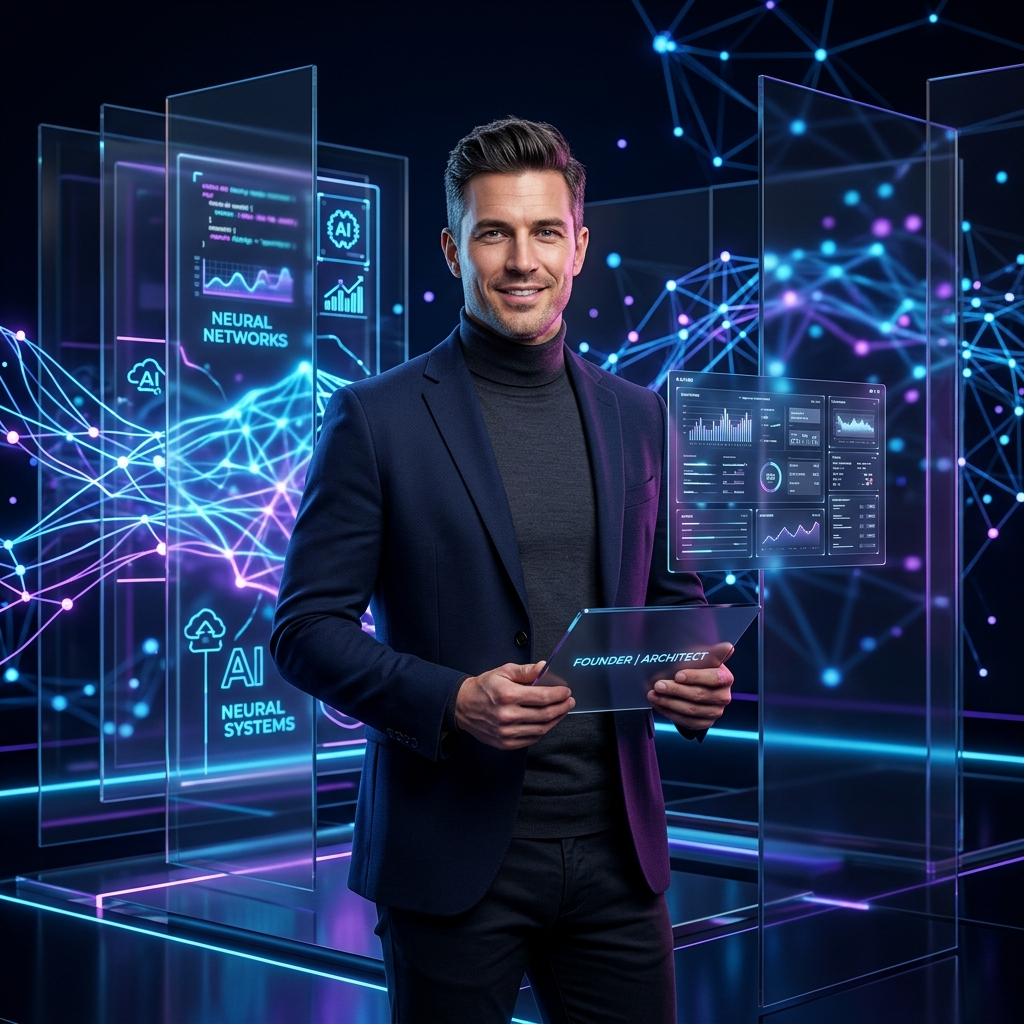
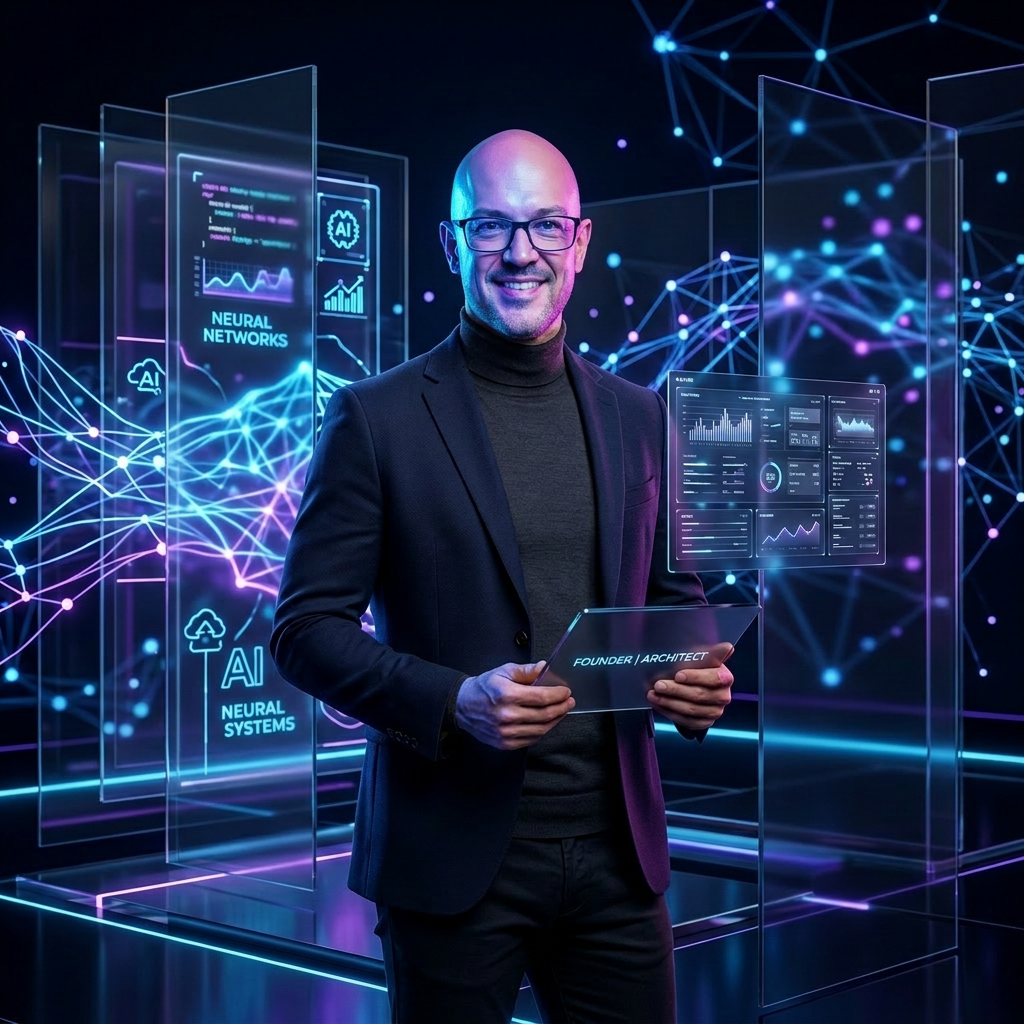
auto: update from TOMASZDUDA [2026-07-13 08:07:11]

diff --git a/01-jaison-core/website/site/index.html b/01-jaison-core/website/site/index.html
@@ -200,7 +200,7 @@
     <header class="site-header">
       <nav class="container site-nav">
         <a href="/" class="logo" style="text-decoration: none; display: flex; align-items: center; gap: 12px;">
-          <img src="./logo.png" alt="JASON Logo" class="header-logo">
+          <img src="./logo.webp" alt="JASON Logo" class="header-logo" width="340" height="80" fetchpriority="high">
         </a>
         <div class="nav-links">
           <a href="#services" style="margin-left: 25px; text-decoration: none; color: var(--charcoal); font-weight: 500;">Systemy</a>
@@ -260,7 +260,7 @@
             <!-- Right Side: Tomasz Brand Photo (Breaking personal brand barrier) -->
             <div style="flex: 0.8; min-width: 300px; display: flex; justify-content: center; position: relative;">
               <div class="glass-card" style="padding: 10px; background: rgba(10, 15, 29, 0.4); border-color: rgba(59, 130, 246, 0.25); border-radius: 20px; overflow: hidden; box-shadow: 0 20px 50px rgba(59, 130, 246, 0.15); width: 100%; max-width: 360px;">
-                <img src="./tomasz_hero.png" alt="Tomasz - Architekt Systemów AI dla Neuroatypowych i Przebodźcowanych" style="width: 100%; height: auto; border-radius: 15px; display: block; filter: brightness(1.05) contrast(1.05);">
+                <img src="./tomasz_hero.webp" alt="Tomasz - Architekt Systemów AI dla Neuroatypowych i Przebodźcowanych" style="width: 100%; height: auto; border-radius: 15px; display: block; filter: brightness(1.05) contrast(1.05);" width="1024" height="1024" fetchpriority="high" loading="eager">
                 <div style="position: absolute; bottom: 25px; left: 25px; right: 25px; background: rgba(5, 8, 20, 0.75); backdrop-filter: blur(8px); padding: 12px 18px; border-radius: 10px; border: 1px solid rgba(255,255,255,0.08); text-align: center;">
                   <span style="color: #FFF; font-weight: bold; font-size: 0.9rem; display: block;">Tomasz</span>
                   <span style="color: #3B82F6; font-size: 0.75rem; text-transform: uppercase; font-weight: bold; letter-spacing: 0.05em;">Architekt Systemów AI &amp; Neuro-produktywności</span>
@@ -365,7 +365,7 @@
             <!-- Prawa strona: Grafika z placeholderem w premium ramce -->
             <div style="flex: 0.8; min-width: 300px; display: flex; justify-content: center; position: relative;">
               <div class="glass-card" style="padding: 10px; background: rgba(10, 15, 29, 0.4); border-color: rgba(59, 130, 246, 0.25); border-radius: 20px; overflow: hidden; box-shadow: 0 20px 50px rgba(59, 130, 246, 0.15); width: 100%; max-width: 380px;">
-                <img src="./asynchronous_freedom.png" alt="Schemat działania asynchronicznych agentów AI w automatyzacji firmy" style="width: 100%; height: auto; border-radius: 15px; display: block; filter: brightness(1.05) contrast(1.05);">
+                <img src="./asynchronous_freedom.webp" alt="Schemat działania asynchronicznych agentów AI w automatyzacji firmy" style="width: 100%; height: auto; border-radius: 15px; display: block; filter: brightness(1.05) contrast(1.05);" width="1024" height="1024" loading="lazy">
                 <div style="position: absolute; bottom: 25px; left: 25px; right: 25px; background: rgba(5, 8, 20, 0.8); backdrop-filter: blur(8px); padding: 12px 18px; border-radius: 10px; border: 1px solid rgba(255,255,255,0.08); text-align: center;">
                   <span style="color: #FFF; font-weight: bold; font-size: 0.9rem; display: block;">Asynchroniczna Wolność</span>
                   <span style="color: #3B82F6; font-size: 0.75rem; text-transform: uppercase; font-weight: bold; letter-spacing: 0.05em;">Automatyczne systemy bez Twojej uwagi</span>
@@ -1104,7 +1104,7 @@
 
                 <!-- Tab 2: Tomasz Bio Portrait with Cybernetic Overlay -->
                 <div id="tab-bio-content" class="about-tab-content" style="position: relative; width: 100%; height: auto; border-radius: 12px; overflow: hidden; background: #070b16;">
-                  <img id="bio-portrait" src="./tomasz_bio.png" onerror="this.onerror=null; this.src='./tomasz_hero.png'; this.style.opacity='0.85';" style="width: 100%; height: auto; display: block; filter: brightness(1.0) contrast(1.05); transition: opacity 0.5s;" alt="Tomasz - Holistic Jason">
+                  <img id="bio-portrait" src="./tomasz_bio.webp" onerror="this.onerror=null; this.src='./tomasz_hero.webp'; this.style.opacity='0.85';" style="width: 100%; height: auto; display: block; filter: brightness(1.0) contrast(1.05); transition: opacity 0.5s;" alt="Tomasz - Holistic Jason" width="1024" height="1024" loading="lazy">
                   
                   <!-- Cybernetic Neon Overlay -->
                   <div style="position: absolute; inset: 0; background: linear-gradient(to top, #0a0f1d 5%, rgba(10, 15, 29, 0.3) 50%, rgba(10, 15, 29, 0.15) 100%); pointer-events: none;"></div>
@@ -1246,7 +1246,7 @@
             <div style="flex: 1; min-width: 300px; display: flex; flex-direction: column; gap: 20px;">
               <!-- Card 1: Certificate -->
               <div class="glass-card" style="padding: 12px; background: rgba(10, 15, 29, 0.45); border: 1px solid rgba(224, 165, 27, 0.25); border-radius: 16px; box-shadow: 0 10px 30px rgba(0,0,0,0.3); transition: transform 0.3s ease, box-shadow 0.3s ease;" onmouseover="this.style.transform='scale(1.03) rotate(1deg)'; this.style.boxShadow='0 15px 35px rgba(224, 165, 27, 0.25)';" onmouseout="this.style.transform='none'; this.style.boxShadow='0 10px 30px rgba(0,0,0,0.3)';">
-                <img src="./certyfikat_google.jpg" alt="Oficjalny Certyfikat Google Umiejętności Jutra AI" style="width: 100%; height: auto; border-radius: 10px; display: block;">
+                <img src="./certyfikat_google.webp" alt="Oficjalny Certyfikat Google Umiejętności Jutra AI" style="width: 100%; height: auto; border-radius: 10px; display: block;" width="1683" height="1189" loading="lazy">
                 <div style="padding: 10px 5px 2px 5px; display: flex; justify-content: space-between; align-items: center;">
                   <span style="color: #FFF; font-size: 0.85rem; font-weight: bold; font-family: var(--font-heading);">Certyfikat Ukończenia SGH & Google</span>
                   <span style="color: var(--muted-gold); font-size: 0.8rem; font-weight: bold;">Google AI</span>
@@ -1255,7 +1255,7 @@
               
               <!-- Card 2: Test Result -->
               <div class="glass-card" style="padding: 12px; background: rgba(10, 15, 29, 0.45); border: 1px solid rgba(59, 130, 246, 0.25); border-radius: 16px; box-shadow: 0 10px 30px rgba(0,0,0,0.3); transition: transform 0.3s ease, box-shadow 0.3s ease;" onmouseover="this.style.transform='scale(1.03) rotate(-1deg)'; this.style.boxShadow='0 15px 35px rgba(59, 130, 246, 0.25)';" onmouseout="this.style.transform='none'; this.style.boxShadow='0 10px 30px rgba(0,0,0,0.3)';">
-                <img src="./test_zaliczony.png" alt="Zaliczony egzamin Google Umiejętności Jutra" style="width: 100%; height: auto; border-radius: 10px; display: block;">
+                <img src="./test_zaliczony.webp" alt="Zaliczony egzamin Google Umiejętności Jutra" style="width: 100%; height: auto; border-radius: 10px; display: block;" width="1212" height="771" loading="lazy">
                 <div style="padding: 10px 5px 2px 5px; display: flex; justify-content: space-between; align-items: center;">
                   <span style="color: #FFF; font-size: 0.85rem; font-weight: bold; font-family: var(--font-heading);">Egzamin końcowy: Status ZALICZONY</span>
                   <span style="color: #3B82F6; font-size: 0.8rem; font-weight: bold;">100% Correct</span>
@@ -1863,7 +1863,7 @@
             <!-- Lewa strona: Grafika z placeholderem -->
             <div style="flex: 0.8; min-width: 300px; display: flex; justify-content: center; position: relative;">
               <div class="glass-card" style="padding: 10px; background: rgba(10, 15, 29, 0.4); border-color: rgba(6, 182, 212, 0.25); border-radius: 20px; overflow: hidden; box-shadow: 0 20px 50px rgba(6, 182, 212, 0.15); width: 100%; max-width: 380px;">
-                <img src="./ai_systems_architect_blind.png" onerror="this.onerror=null; this.src='./ai_systems_architect.png';" alt="Architekt Systemów AI i Widoczność w AI Search" style="width: 100%; height: auto; border-radius: 15px; display: block; filter: brightness(1.05) contrast(1.05);">
+                <img src="./ai_systems_architect_blind.webp" onerror="this.onerror=null; this.src='./ai_systems_architect.webp';" alt="Architekt Systemów AI i Widoczność w AI Search" style="width: 100%; height: auto; border-radius: 15px; display: block; filter: brightness(1.05) contrast(1.05);" width="1024" height="1024" loading="lazy">
                 <div style="position: absolute; bottom: 25px; left: 25px; right: 25px; background: rgba(5, 8, 20, 0.8); backdrop-filter: blur(8px); padding: 12px 18px; border-radius: 10px; border: 1px solid rgba(255,255,255,0.08); text-align: center;">
                   <span style="color: #FFF; font-weight: bold; font-size: 0.9rem; display: block;">Architektura AEO</span>
                   <span style="color: #06B6D4; font-size: 0.75rem; text-transform: uppercase; font-weight: bold; letter-spacing: 0.05em;">Indeksowanie i optymalizacja pod LLM</span>
@@ -2017,7 +2017,7 @@
           <a href="https://www.youtube.com" target="_blank" rel="noopener noreferrer" style="color: rgba(255,255,255,0.4); text-decoration: none; transition: color 0.2s;" onmouseover="this.style.color='#FF0000'" onmouseout="this.style.color='rgba(255,255,255,0.4)'" title="YouTube">📺 YouTube</a>
           <a href="mailto:hello@jaison.pl" style="color: rgba(255,255,255,0.4); text-decoration: none; transition: color 0.2s;" onmouseover="this.style.color='#06B6D4'" onmouseout="this.style.color='rgba(255,255,255,0.4)'" title="Email">✉ hello@jaison.pl</a>
         </div>
-        <img src="./logo.png" alt="J(AI)SON Operator" style="height: 38px; mix-blend-mode: normal; filter: drop-shadow(0 0 12px rgba(99, 102, 241, 0.35)) drop-shadow(0 0 6px rgba(16, 185, 129, 0.25)); margin-bottom: 15px; opacity: 0.85;">
+        <img src="./logo.webp" alt="J(AI)SON Operator" style="height: 38px; width: auto; mix-blend-mode: normal; filter: drop-shadow(0 0 12px rgba(99, 102, 241, 0.35)) drop-shadow(0 0 6px rgba(16, 185, 129, 0.25)); margin-bottom: 15px; opacity: 0.85;" width="110" height="38" loading="lazy">
         <p style="font-size: 0.85rem; margin-bottom: 6px;">&copy; 2026 J(AI)SON &middot; AI Systems Architect &middot; <a href="/" style="color: rgba(255,255,255,0.6); text-decoration: none;">jaison.pl</a></p>
         <p style="font-size: 0.75rem; color: rgba(255,255,255,0.35); margin-bottom: 12px; line-height: 1.5;">
           Administratorem danych osobowych jest <strong>Holistic Jason (Tomasz Duda)</strong> &middot; Pruszków, Polska &middot; <a href="mailto:hello@jaison.pl" style="color: rgba(255,255,255,0.5); text-decoration: none;">hello@jaison.pl</a>
@@ -2722,7 +2722,7 @@
               <p id="jaison-chat-subtitle">Architekt Systemów & Doradca B2B</p>
             </div>
           </div>
-          <button class="jaison-close-btn" onclick="toggleJaisonChat()">&times;</button>
+          <button class="jaison-close-btn" onclick="toggleJaisonChat()" aria-label="Zamknij czat J(AI)SON AI">&times;</button>
         </div>
         
         <div id="jaison-chat-messages">
@@ -2739,14 +2739,14 @@
           </div>
           <div id="jaison-input-wrapper">
             <input type="text" id="jaison-chat-input" placeholder="Napisz do J(AI)SONa..." onkeypress="handleJaisonEnter(event)">
-            <button id="jaison-chat-send" onclick="sendJaisonInput()">
+            <button id="jaison-chat-send" onclick="sendJaisonInput()" aria-label="Wyślij wiadomość">
               <svg viewBox="0 0 24 24"><path d="M2.01 21L23 12 2.01 3 2 10l15 2-15 2z"></path></svg>
             </button>
           </div>
         </div>
       </div>
 
-      <div id="jaison-chat-toggle" onclick="toggleJaisonChat()">
+      <div id="jaison-chat-toggle" onclick="toggleJaisonChat()" role="button" aria-label="Otwórz czat J(AI)SON AI">
         <svg viewBox="0 0 24 24"><path d="M20 2H4c-1.1 0-2 .9-2 2v18l4-4h14c1.1 0 2-.9 2-2V4c0-1.1-.9-2-2-2zm0 14H6l-2 2V4h16v12z"/></svg>
       </div>
     </div>

diff --git a/03-social-media-factory/flux_lora_prompts_blueprint.md b/03-social-media-factory/flux_lora_prompts_blueprint.md
@@ -68,3 +68,14 @@ An ultra-minimalist panoramic 16:9 shot featuring [LORA_TRIGGER], a bald athleti
 ```text
 A powerful conceptual art portrait of [LORA_TRIGGER], a bald athletic man with a serene and confident smile. He has a strong masculine face with natural fullness, wearing a high-end futuristic structured black coat with a high geometric collar. Over his eyes is a sleek, thin minimalist glowing cyan geometric visor. He is standing in a deep black structured digital void, surrounded by highly detailed, glowing 3D logic trees, neon blue and violet code pathways, and floating abstract data streams. In the dark background behind him, a beautiful minimalist holographic projection of the "J(AI)SON" text logo is softly glowing in cyan light. Volumetric neon lighting, cinematic composition, hyper-detailed, Unreal Engine 5 render, 8k.
 ```
+
+---
+
+### 📊 6. Scena: AI Founder & Architect (Odwzorowanie Zdjęcia Referencyjnego z Szklanymi Panelami)
+*   **Tło i sceneria:** Dokładne, kropka w kropkę odwzorowanie podesłanej grafiki referencyjnej. Ciemna przestrzeń laboratoryjna wypełniona pionowymi, przezroczystymi szklanymi panelami wyświetlającymi neonowe interfejsy AI ("NEURAL NETWORKS", "AI NEURAL SYSTEMS" z miniaturowymi ikonami chmur i AI). W tle świecące błękitno-fioletowe przestrzenne trójwymiarowe sieci neuronowe (mesh networks) z jasnymi węzłami światła.
+*   **Ubiór i atrybuty:** Tomasz stoi na środku, trzymając w dłoniach poziomy, przezroczysty szklany tablet z grawerem "FOUNDER | ARCHITECT". Ubrany jest w luksusową, dopasowaną granatową marynarkę o wyraźnej strukturze materiału oraz elegancki, ciemnoszary (charcoal) cienki golf premium. Na lewej piersi golfu widnieje malutkie, szare wyhaftowane logo "J(AI)SON". Na twarzy ma swoje charakterystyczne, prostokątne okulary w cienkich matowych czarnych oprawkach z przezroczystymi szkłami.
+*   **Format:** 1:1 (Kwadrat).
+
+```text
+A photorealistic cinematic portrait of [LORA_TRIGGER], a confident bald man in his late 30s with a warm, genuine smile. He has a well-defined masculine facial structure with a strong jawline and natural, healthy facial fullness. He is wearing stylish rectangular glasses with thin matte black frames and clear corrective lenses, exactly as in his reference photo. He is standing looking directly at the camera. He is dressed in a luxury tailored deep navy blue structured blazer over a premium dark charcoal grey turtleneck sweater. On the collar of the turtleneck, there is a very small, clean matte grey embroidered "J(AI)SON" text logo. He is holding a sleek, glowing, transparent horizontal glass tablet in both hands with the text "FOUNDER | ARCHITECT" neatly engraved on it. The background is a sophisticated and futuristic dark command center filled with multiple tall, vertical, transparent glass screens displaying glowing neon cyan and purple data charts, analytical dashboards, and text saying "NEURAL NETWORKS" and "AI NEURAL SYSTEMS". In the background depth, beautiful glowing 3D mesh neural networks in vibrant blue and magenta stretch across the dark space with bright luminous nodes. Highly detailed, cinematic studio lighting, f/1.8, 50mm lens, 8k resolution.
+```
